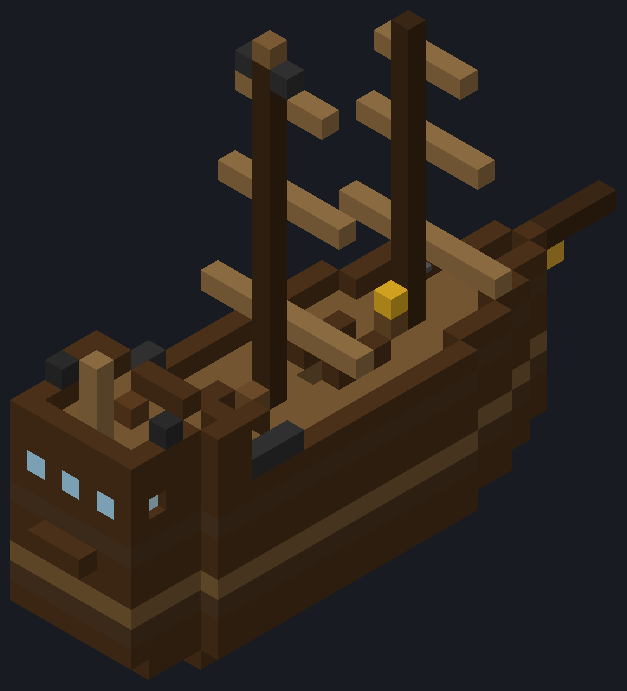
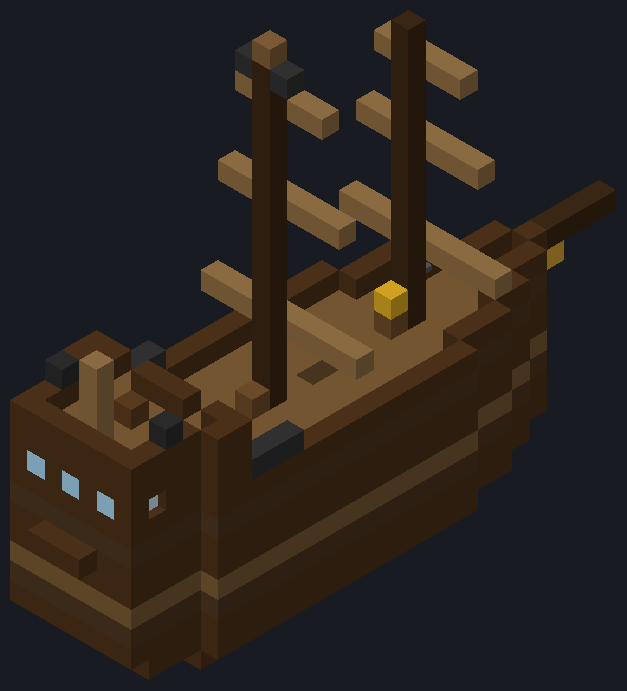
fix(ship): leave the rope railing off the brig's companions

Changed region(s): [[0.303, 0.547, 0.4545, 0.6382], [0.5152, 0.4559, 0.6364, 0.547], [0.4545, 0.4863, 0.5758, 0.5774]]

diff --git a/common/src/main/java/com/richardsenger/piratesnships/ship/template/BrigGameTests.java b/common/src/main/java/com/richardsenger/piratesnships/ship/template/BrigGameTests.java
@@ -429,6 +429,12 @@ public final class BrigGameTests {
                 for (String name : stations.keySet()) {
                     CrewMember c = crew.get(i++);
                     if (c.isAtStation()) seatedAt.putIfAbsent(name, (int) (t - SETTLE - 20));
+                    else if ((t - SETTLE - 20) % 100 == 0) {
+                        Vec3 local = ship.toPlot(c.position()).subtract(Vec3.atLowerCornerOf(ShipHelm.steering(ship).subtract(HELM)));
+                        Constants.LOG.info("[SHIP1] {} still walking after {} ticks, at template {} toward {}", name, t - SETTLE - 20,
+                                String.format(Locale.ROOT, "(%.1f, %.1f, %.1f)", local.x, local.y, local.z),
+                                c.walk() == null ? "-" : c.walk().spot().subtract(ShipHelm.steering(ship).subtract(HELM)).toShortString());
+                    }
                 }
             }
         });

diff --git a/art/schematics/brig.py b/art/schematics/brig.py
@@ -204,10 +204,8 @@ def railing_cells():
     # gaps over the stair landings in the quarterdeck front
     for x in STAIR_XS:
         out.pop((x, 11, QD))
-    # rope railing round both companion openings
-    for zs in (14, 15, 16, 21, 22, 23):
-        out[(CX - 1, 8, zs)] = ("rope", ["east"])
-        out[(CX + 1, 8, zs)] = ("rope", ["west"])
+    # no rope railing round the companion openings: the crew's pathfinder takes a rope railing's edge for open floor
+    # (SHIP1: a walker stuck pushing against it beside the after companion)
     # a wide port (two ports side by side) and a gate on each side of the waist
     for zs in (13, 14):
         out[(0, 8, zs)] = ("port", ["west"])

diff --git a/art/README.md b/art/README.md
@@ -2821,7 +2821,8 @@ up by one row; see the comment there).
   level (roll and pitch under 2 degrees, not capped).
 - **Getting about:** stairs from the weather deck to the quarterdeck on both sides (x 2 and 6, z 22..24, landing on
   z 25; one block in from the rail, so the deck beside the ratline latches stays free for a climber); two
-  **companions**, each a three-block opening in the weather deck (x 4, rope railing on both sides) with a stair in the
+  **companions**, each a three-block opening in the weather deck (x 4; no rope railing round it: the crew's pathfinder
+  takes a rope railing's edge for open floor, and a walker stuck pushing against one) with a stair in the
   deck and two below, descending toward the bow in half steps a crew member walks: forward (opening z 14..16, deck stair
   z 17, onto the gun deck at z 14) and aft (opening z 21..23, deck stair z 24 at the cabin door, onto the gun deck at
   z 21). The second one is there for the pathfinder: from the quarterdeck the crew's pathfinder (32 blocks, 512 nodes)
